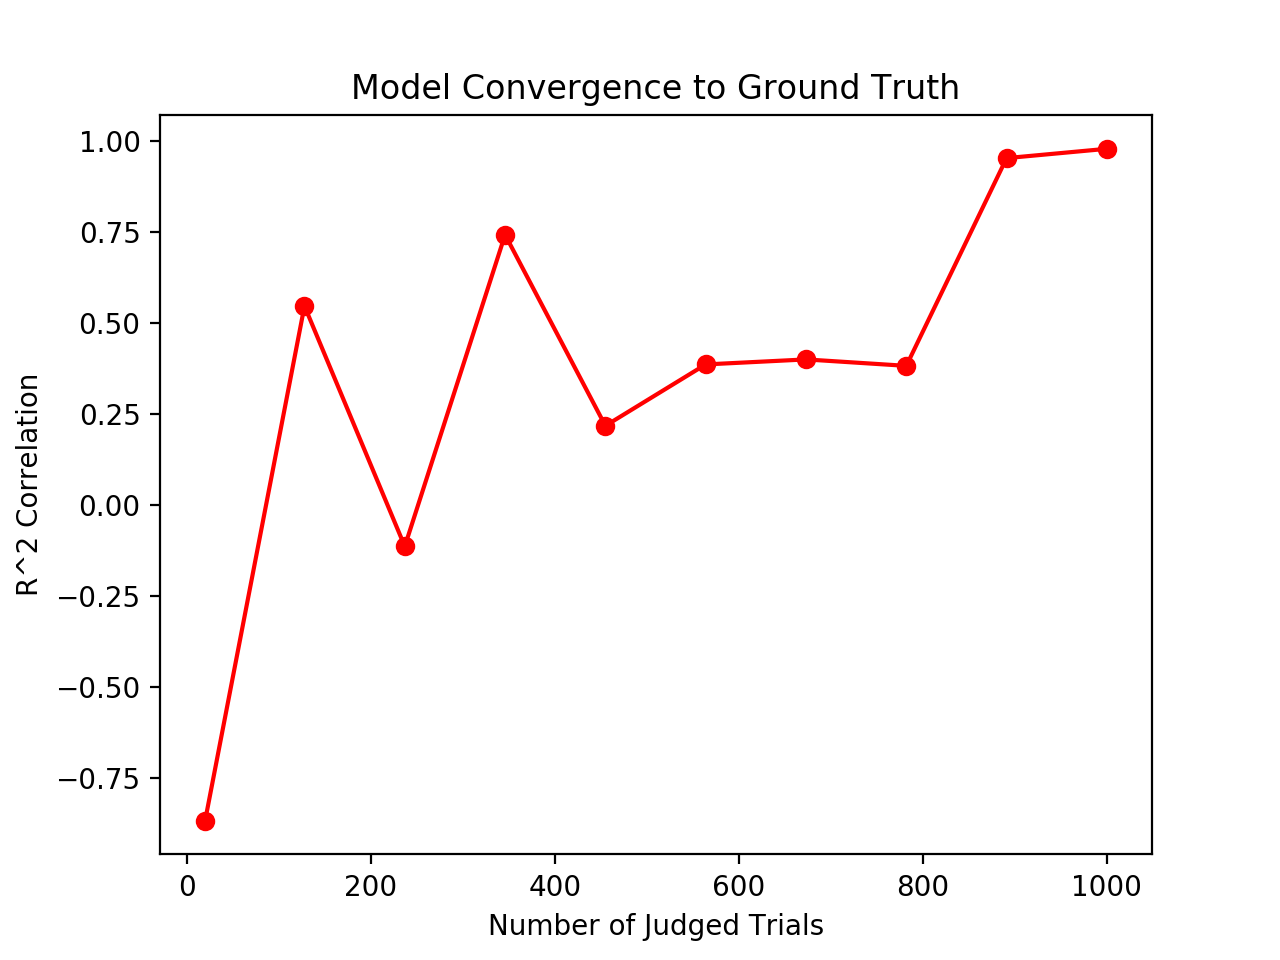
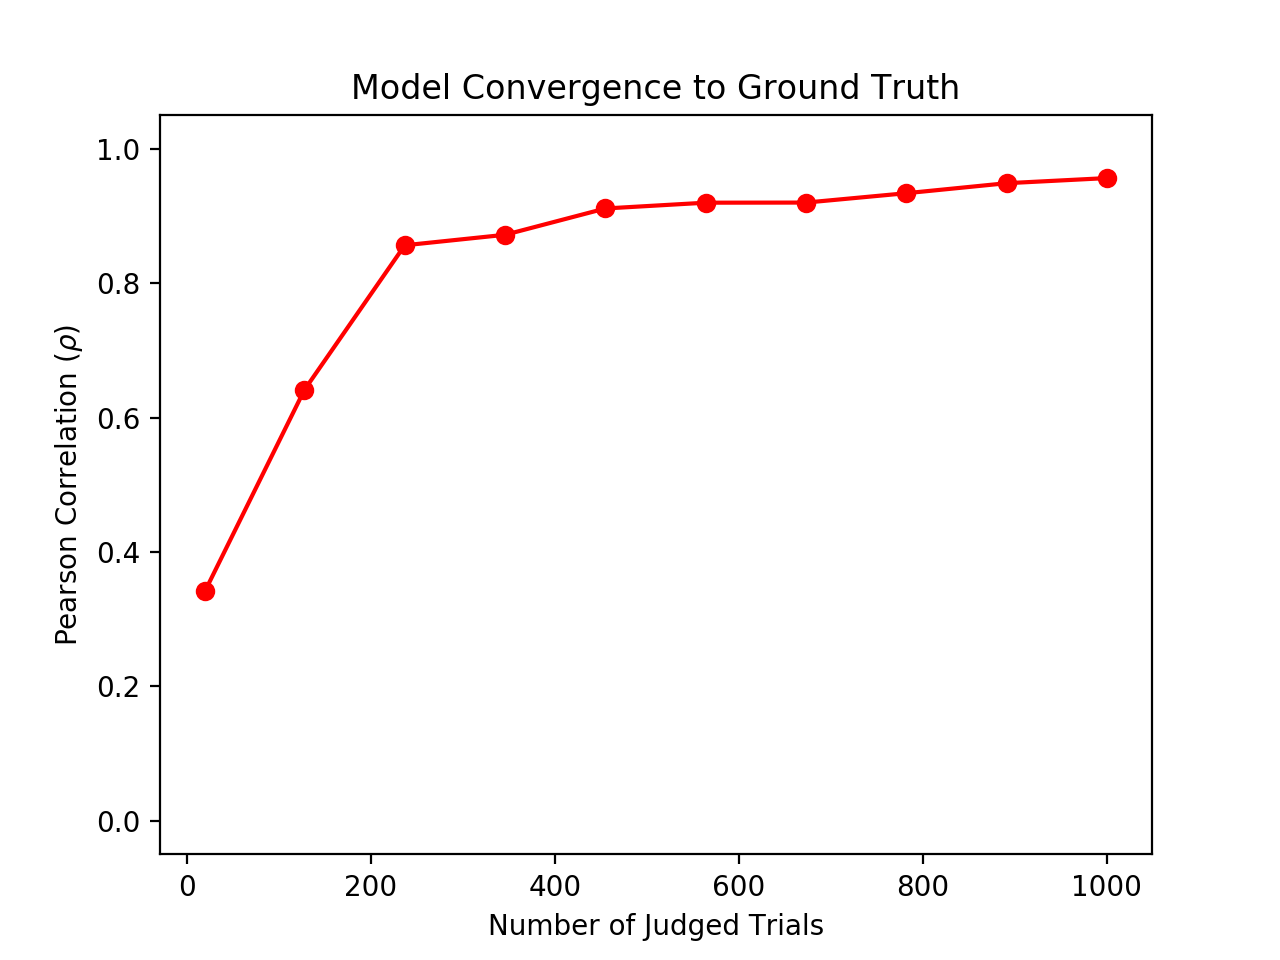
Updating code and examples to use Pearson r.

diff --git a/examples/one_group_convergence.py b/examples/one_group_convergence.py
@@ -25,7 +25,6 @@ data is added.
 import numpy as np
 import matplotlib.pyplot as plt
 import tensorflow as tf
-# import warnings  # TODO
 
 from psiz.models import Exponential
 from psiz.simulate import Agent
@@ -35,7 +34,6 @@ from psiz.utils import similarity_matrix, matrix_comparison
 
 def main():
     """Run the simulation that infers an embedding for two groups."""
-    # warnings.filterwarnings("ignore")  # TODO
     n_stimuli = 25
     n_dim = 3
     n_group = 1
@@ -57,7 +55,7 @@ def main():
     # Infer independent models with increasing amounts of data.
     n_step = 10
     n_obs = np.floor(np.linspace(20, n_trial, n_step)).astype(np.int64)
-    r_squared = np.empty((n_step))
+    r_pearson = np.empty((n_step))
     loss = np.empty((n_step))
     for i_round in range(n_step):
         emb_inferred = Exponential(n_stimuli, n_dim, n_group)
@@ -67,18 +65,21 @@ def main():
         # similarity matrices implied by each model.
         simmat_infer = similarity_matrix(
             emb_inferred.similarity, emb_inferred.z['value'])
-        r_squared[i_round] = matrix_comparison(simmat_infer, simmat_true, score='r2')
+        r_pearson[i_round] = matrix_comparison(
+            simmat_infer, simmat_true, score='pearson'
+        )
         print(
-            'Round {0} ({1} trials) | Loss: {2:.2f} | R^2: {3:.2f}'.format(
-                i_round, n_obs[i_round], loss[i_round], r_squared[i_round]
+            'Round {0} ({1} trials) | Loss: {2:.2f} | '
+            'Correlation (r): {3:.2f}'.format(
+                i_round, n_obs[i_round], loss[i_round], r_pearson[i_round]
             )
         )
 
     # Plot comparison results.
-    plt.plot(n_obs, r_squared, 'ro-')
+    plt.plot(n_obs, r_pearson, 'ro-')
     plt.title('Model Convergence to Ground Truth')
     plt.xlabel('Number of Judged Trials')
-    plt.ylabel('R^2 Correlation')
+    plt.ylabel(r'Pearson Correlation ($\rho$)')
     plt.ylim(-0.05, 1.05)
     plt.show()
 

diff --git a/examples/posterior_samples.py b/examples/posterior_samples.py
@@ -24,7 +24,7 @@ In this example, using the ground truth allows us to see how the
 posterior sampling algorithm works under ideal conditions.
 
 Notes:
-    - This script takes awhile to execute.
+    This script takes awhile to execute.
 
 """
 
@@ -80,12 +80,14 @@ def main():
     # z_inferred = copy.copy(model_inferred.z['value'].astype(np.float64))
     # simmat_infer = similarity_matrix(
     #     model_inferred.similarity, model_inferred.z['value'])
-    # r_squared = matrix_comparison(simmat_infer, simmat_truth)
-    # print('R^2 | {0: >6.2f}'.format(r_squared))
+    # r_pearson = matrix_comparison(
+    #     simmat_infer, simmat_truth, score='pearson'
+    # )
+    # print('r | {0: >6.2f}'.format(r_pearson))
 
     z_samp_list = n_frame * [None]
     z_central_list = n_frame * [None]
-    r_squared_list = n_frame * [None]
+    r_pearson_list = n_frame * [None]
     n_obs = np.floor(np.linspace(20, n_trial, n_frame)).astype(np.int64)
     for i_frame in range(n_frame):
         include_idx = np.arange(0, n_obs[i_frame])
@@ -101,9 +103,11 @@ def main():
         model_inferred.z['value'] = z_central
         simmat_infer = similarity_matrix(
             model_inferred.similarity, model_inferred.z['value'])
-        r_squared = matrix_comparison(simmat_infer, simmat_truth)
-        r_squared_list[i_frame] = r_squared
-        print('Frame: {0} | R^2: {1: >6.2f}'.format(i_frame, r_squared))
+        r_pearson = matrix_comparison(
+            simmat_infer, simmat_truth, score='pearson'
+        )
+        r_pearson_list[i_frame] = r_pearson
+        print('Frame: {0} | r: {1: >6.2f}'.format(i_frame, r_pearson))
         model_inferred.z['value'] = z_original
 
     cmap = matplotlib.cm.get_cmap('jet')

diff --git a/examples/three_groups.py b/examples/three_groups.py
@@ -25,14 +25,14 @@ model.
 
 Example output:
 
-    Model Comparison (R^2)
+     Model Comparison (R^2)
     ================================
       True  |        Inferred
             | Novice  Interm  Expert
     --------+-----------------------
-     Novice |   0.98    0.61   -0.52
-     Interm |   0.54    0.98   -0.08
-     Expert |   0.07    0.65    0.95
+     Novice |   0.99    0.63    0.11
+     Interm |   0.63    0.99    0.53
+     Expert |   0.13    0.59    0.98
 
 """
 
@@ -118,7 +118,7 @@ def main():
     # Display comparison results. A good infferred model will have a high
     # R^2 value on the diagonal elements (max is 1) and relatively low R^2
     # values on the off-diagonal elements.
-    print('\n    Model Comparison (R^2)')
+    print('\n    Model Comparison (r^2)')
     print('    ================================')
     print('      True  |        Inferred')
     print('            | Novice  Interm  Expert')

diff --git a/psiz/utils.py b/psiz/utils.py
@@ -93,7 +93,9 @@ def matrix_comparison(mat_a, mat_b, score='r2', elements='upper'):
     if score == 'pearson':
         score, _ = pearsonr(mat_a[idx], mat_b[idx])
     elif score == 'r2':
-        score = r2_score(mat_a[idx], mat_b[idx])
+        rho, _ = pearsonr(mat_a[idx], mat_b[idx])
+        score = rho**2
+        # score = r2_score(mat_a[idx], mat_b[idx])
     elif score == 'mse':
         score = np.mean((mat_a[idx] - mat_b[idx])**2)
     else:
